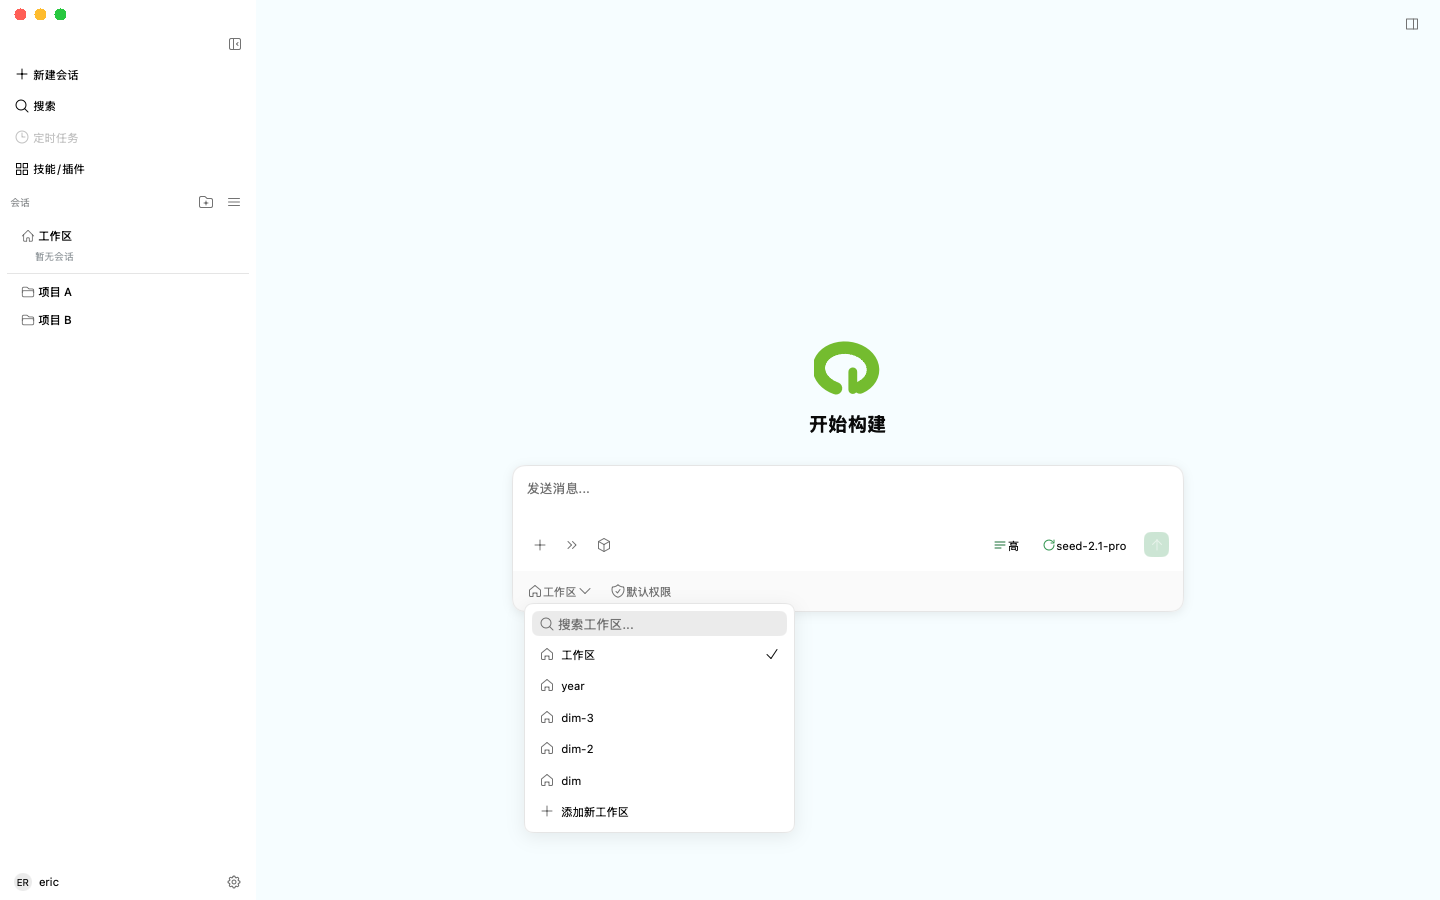
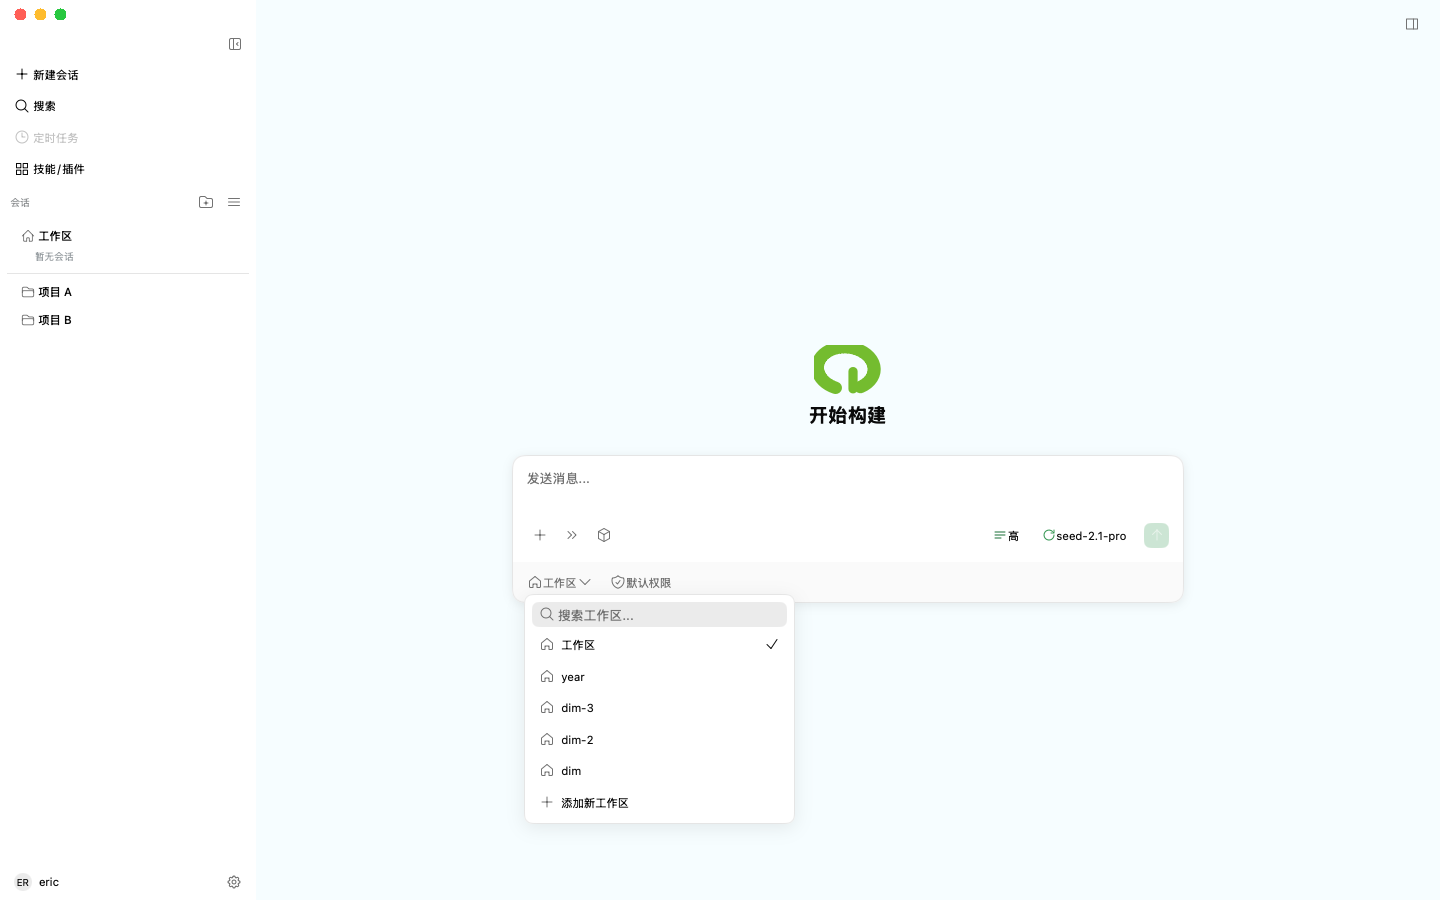
feat(ui): provider form with validation; field surface, titles and brand mark aligned

diff --git a/internal/ui/icons.go b/internal/ui/icons.go
@@ -298,18 +298,30 @@ var (
 	// ——一圈缺口环（缺口在左下）加一根穿过缺口的竖杆，观感介于「d」与「@」之间。
 	// 它不是 24 网格的线性图标（环比图标粗、标记本身是宽的），故单独给 viewBox
 	// 与两条各自的描边宽度；比例按 empty.png 与 账户-top.png 的标记实测（墨迹
-	// 宽高比 34:24.5，环宽约为标记宽的 0.18，竖杆约为 0.13）。
-	iconBrand = mustBrandSVG(
-		`<g transform="rotate(5 17 13.4)">` +
-			`<path stroke-width="6.2" d="M11.72 21.89A13.6 10.6 0 1 1 23.64 20.45"/>` +
-			`</g>` +
-			`<path stroke-width="4.4" d="M19.4 13.2V22"/>`)
+	// 宽高比 34:24.5，环宽约为标记宽的 0.18，竖杆约为 0.13）。viewBox 收紧到
+	// 墨迹的外框，图标本身等比缩放。
+	iconBrand = mustBrandSVG(brandMarkArt, false)
+	// iconBrandWide 是同一标记的「铺满」版（preserveAspectRatio=none）：空态的
+	// 标记按参考实测的墨迹 68×49 画（比例 1.388，比标记自身的 1.327 略宽），
+	// 等比缩放会窄一截，所以空态用这一版把墨迹拉满 68×49。
+	iconBrandWide = mustBrandSVG(brandMarkArt, true)
 )
 
-// mustBrandSVG 解析品牌标记：viewBox 取标记自身的比例（34×24.5），描边宽度写在
-// 路径上——不套图标那套 1.5 描边。
-func mustBrandSVG(inner string) *gui.SVG {
-	const head = `<svg xmlns="http://www.w3.org/2000/svg" viewBox="0 0 34 24.5" fill="none" ` +
+// brandMarkArt 是品牌标记的路径（两个版本共用一套形状）。
+const brandMarkArt = `<g transform="rotate(5 17 13.4)">` +
+	`<path stroke-width="6.2" d="M11.72 21.89A13.6 10.6 0 1 1 23.64 20.45"/>` +
+	`</g>` +
+	`<path stroke-width="4.4" d="M19.4 13.2V22"/>`
+
+// mustBrandSVG 解析品牌标记：viewBox 取墨迹的外框（32.5×24.5），描边宽度写在
+// 路径上——不套图标那套 1.5 描边。stretch 为真时按目标框铺满（不留等比白边）。
+func mustBrandSVG(inner string, stretch bool) *gui.SVG {
+	fit := `xMidYMid meet`
+	if stretch {
+		fit = `none`
+	}
+	head := `<svg xmlns="http://www.w3.org/2000/svg" viewBox="0.75 0 32.5 24.5" fill="none" ` +
+		`preserveAspectRatio="` + fit + `" ` +
 		`stroke="currentColor" stroke-linecap="round" stroke-linejoin="round">`
 	return gui.MustParseSVG([]byte(head + inner + `</svg>`))
 }

diff --git a/internal/ui/composer.go b/internal/ui/composer.go
@@ -35,8 +35,10 @@ const (
 	composerToolSize = 25
 	// composerInnerHeight 是审批卡里命令面板的最小高。
 	composerInnerHeight = 80
-	// brandMarkSize 是空态品牌标记的边长（参考实测墨迹 68×49，方块 68）。
-	brandMarkSize = 68
+	// brandMarkW / brandMarkH 是空态品牌标记的墨迹尺寸（参考实测 68×49，
+	// 与标记自身 34:24.5 的比例一致）。
+	brandMarkW = 68
+	brandMarkH = 49
 	// composerMenuWidth 是标题栏 ⋯ 菜单的最小宽（参考 159；中文括注留余量）。
 	composerMenuWidth = 190
 	// composerControlTriggerHeight 是控制行按钮的高度（参考 21）。
@@ -112,7 +114,7 @@ func (a *App) emptyThread(c *gui.Context) {
 		gui.Column(c).WidthPercent(100).MaxWidth(composerMaxWidth).Gap(space8).
 			Children(func() {
 				gui.Column(c).AlignItems(gui.Center).Gap(space2).Children(func() {
-					brandMark(c, brandMarkSize, t)
+					brandMark(c, brandMarkW, brandMarkH, t)
 					typeEmptyTitle.style(t, gui.Text(c, "开始构建")).
 						FontWeight(700).Label("开始构建")
 				})
@@ -164,12 +166,12 @@ func (a *App) firstRunGuide(c *gui.Context) {
 	})
 }
 
-// brandMark 是空态的品牌图形：68×68（墨迹 68×49），取品牌亮绿；只画形状，
-// 读屏名给产品名。
-func brandMark(c *gui.Context, size float32, t *gui.Theme) {
-	box := gui.Box(c).Width(size).Height(size).Shrink(0).Label("品牌：DimAgent")
+// brandMark 是空态的品牌图形：墨迹 68×49（标记自身的比例），取品牌亮绿；
+// 只画形状，读屏名给产品名。
+func brandMark(c *gui.Context, width, height float32, t *gui.Theme) {
+	box := gui.Box(c).Width(width).Height(height).Shrink(0).Label("品牌：DimAgent")
 	box.DrawOver(func(p *gui.Painter, r gui.Rect) {
-		p.Icon(iconBrand, r, colorBrandEmpty)
+		p.Icon(iconBrandWide, r, colorBrandEmpty)
 	})
 }
 

diff --git a/internal/ui/settings_provider_form.go b/internal/ui/settings_provider_form.go
@@ -265,7 +265,7 @@ func configFormField(c *gui.Context, value *string, label, placeholder, errText 
 		if errText != "" {
 			// 错误文案就是屏幕上要读的那一行：不另给它 Label，否则 Label 会顶掉
 			// 显示的文字（Text 的 Label 就是它的内容）。
-			configMicroStyle.style(t, gui.Text(c, errText)).TextColor(t.Danger).
+			configRowStyle.style(t, gui.Text(c, errText)).TextColor(t.Danger).
 				Role(gui.RoleAlert).MaxLines(2)
 		}
 	})
@@ -299,7 +299,7 @@ func (a *App) configFormModels(c *gui.Context, data configView, form *configForm
 			configFormModelRow(c, form, index, !form.editing)
 		}
 		if form.modelsErr != "" {
-			configMicroStyle.style(t, gui.Text(c, form.modelsErr)).TextColor(t.Danger).
+			configRowStyle.style(t, gui.Text(c, form.modelsErr)).TextColor(t.Danger).
 				Role(gui.RoleAlert).MaxLines(2)
 		}
 	})
@@ -332,7 +332,7 @@ func configFormModelRow(c *gui.Context, form *configForm, index int, editable bo
 func (a *App) configFormFooter(c *gui.Context, data configView, form *configForm) {
 	t := c.Theme()
 	if form.formErr != "" {
-		configMicroStyle.style(t, gui.Text(c, form.formErr)).TextColor(t.Danger).
+		configRowStyle.style(t, gui.Text(c, form.formErr)).TextColor(t.Danger).
 			Role(gui.RoleAlert).MaxLines(3)
 	}
 	gui.Row(c).Shrink(0).Justify(gui.End).Gap(configGapRow).Children(func() {

diff --git a/internal/ui/settings_provider_wired_test.go b/internal/ui/settings_provider_wired_test.go
@@ -262,3 +262,24 @@ func TestProviderFormEditPrefilled(t *testing.T) {
 		t.Fatal("保存成功后表单没有关闭")
 	}
 }
+
+// TestProviderFormSelectsCreatedProvider 断言新增成功后焦点落在新供应商上：
+// 新建回执不带标识，待选的名称在下一帧的读数里解析成那一项。
+func TestProviderFormSelectsCreatedProvider(t *testing.T) {
+	resetSettingsScreenState()
+	src := providerRecordsSource()
+	app := NewApp(Options{State: StateDefault, Source: src})
+	// 服务端新建后清单里出现这一项（与 CreateProvider 的回执后重读同构）。
+	src.settings.ProviderRecords = append(src.settings.ProviderRecords, ProviderRecordSnapshot{
+		ID: "p2", Name: "Acme 2", BaseURL: "https://acme2.test/v1", Enabled: true, Version: 1,
+	})
+	configScreen.selectAfterCreate = "Acme 2"
+	tt := openSettingsSection(t, app, secProviders)
+
+	if got := configScreen.selected; got != "p2" {
+		t.Fatalf("新建后选中的是 %q，想要 p2", got)
+	}
+	if _, ok := tt.Find("https://acme2.test/v1"); !ok {
+		t.Fatal("详情没有切到新建的供应商")
+	}
+}

diff --git a/internal/ui/app.go b/internal/ui/app.go
@@ -155,7 +155,7 @@ var variantNames = map[string]Variant{
 	"term": VariantTerm, "term-running": VariantTermRunning,
 	"term-exited": VariantTermExited, "settings": VariantSettings,
 	"settings-providers": VariantSettingsProviders,
-	"chat-menu": VariantChatMenu, "open-with": VariantOpenWith,
+	"chat-menu":          VariantChatMenu, "open-with": VariantOpenWith,
 	"model": VariantModel, "effort": VariantEffort,
 	"skills": VariantSkills, "mode": VariantMode,
 	"permission": VariantPermission, "workspace": VariantWorkspace,

diff --git a/internal/ui/settings_configuration_screen.go b/internal/ui/settings_configuration_screen.go
@@ -602,7 +602,9 @@ func (a *App) configProviderRow(c *gui.Context, data configView, provider config
 		row = row.Background(t.SurfaceHover)
 	}
 	if row.Clicked() {
+		// 换供应商时收起表单：表单的草稿属于上一项，留着会让人以为在改新的这一项。
 		configScreen.selected = configKey(provider)
+		configFormClose()
 	}
 	style := configRowStyle
 	if selected {
